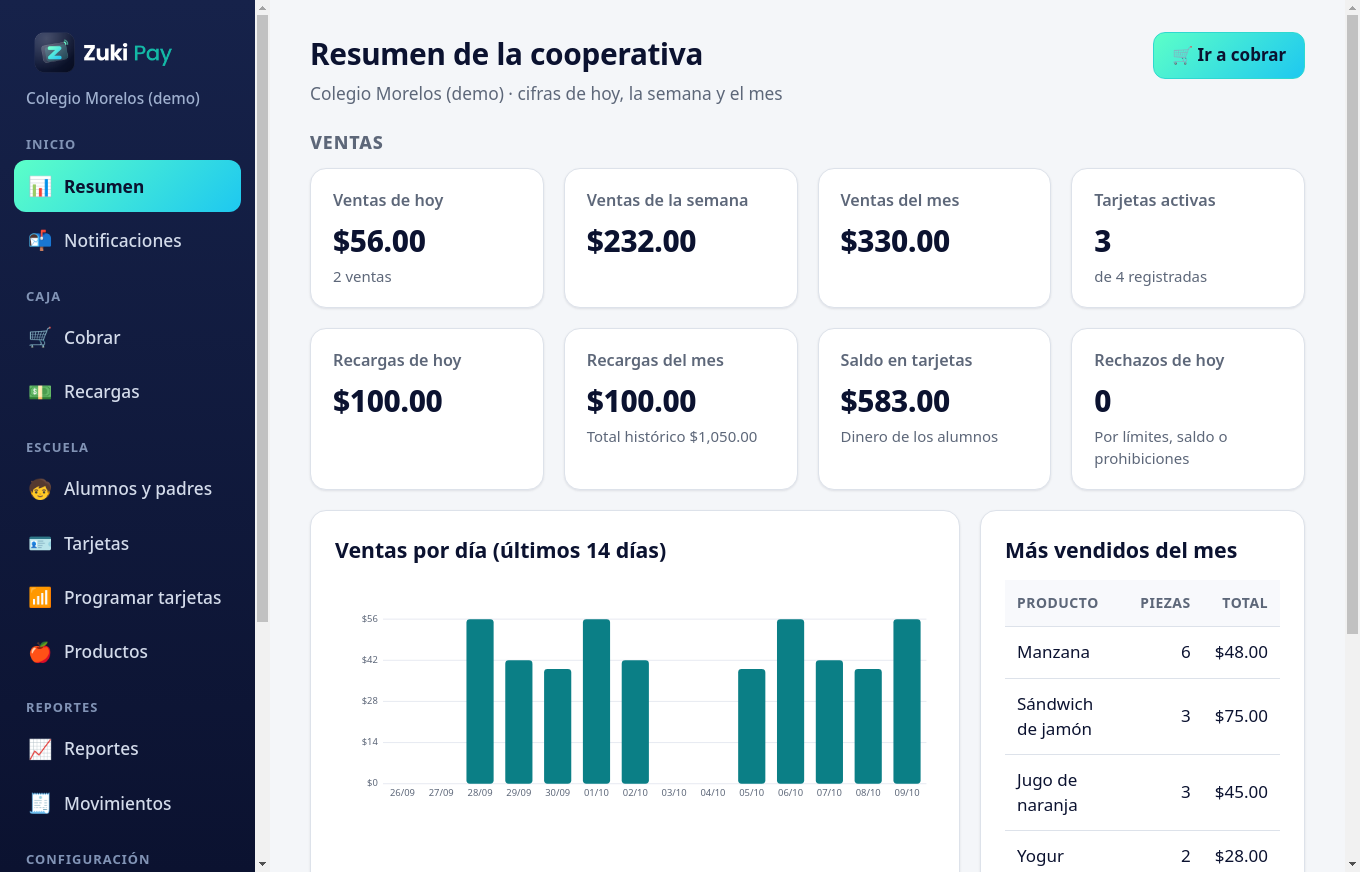
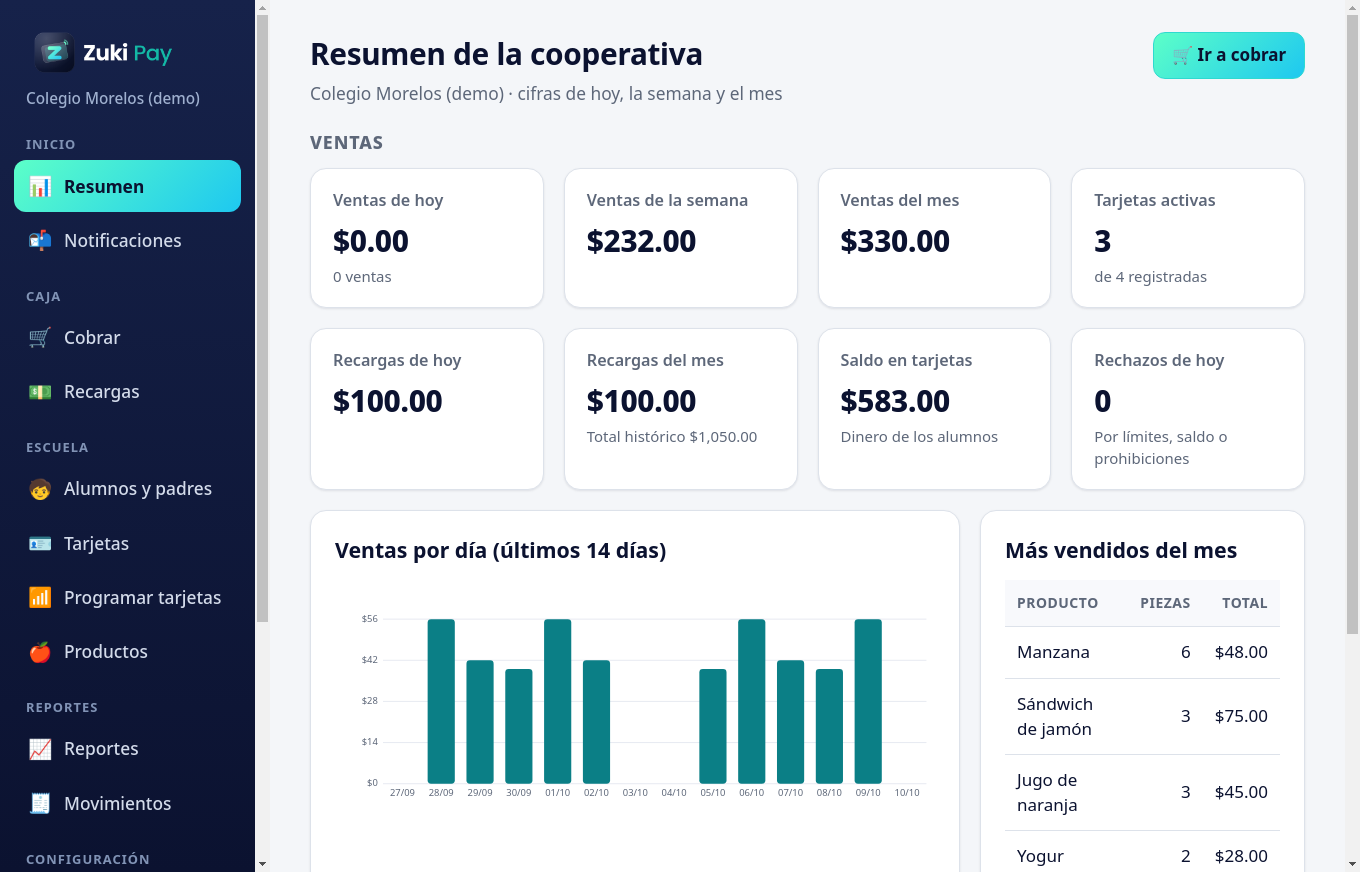
Pantalla 'Instala Zuki Pay' en celulares y tabletas (iOS/iPadOS/Android) fuera de modo instalado: instrucciones por plataforma con ilustraciones, botón Instalar (beforeinstallprompt), Copiar enlace; sin pantalla en escritorio/Electron; ?nogate=1 para pruebas; cache del SW v10; pruebas y capturas 100

Changed region(s): [[0.3088, 0.7122, 0.6794, 0.8979], [0.2471, 0.2477, 0.3088, 0.3096]]

diff --git a/server/public/install-gate.js b/server/public/install-gate.js
@@ -1,0 +1,114 @@
+// Pantalla "Instala Zuki Pay" (como Xbox Cloud Gaming): en celulares y tabletas (iPhone, iPad —incluido iPadOS
+// que se reporta como Mac con pantalla táctil— y Android) la app solo se usa INSTALADA (pantalla de inicio).
+// Si se abre en el navegador, se muestra una pantalla completa con instrucciones según el equipo.
+// * Computadoras y la app de escritorio (Electron): sin pantalla de instalación.
+// * Al instalar (evento appinstalled) o al abrir desde el ícono (display-mode standalone / navigator.standalone): desaparece.
+// * Pruebas: agregar ?nogate=1 a la URL la omite durante esa pestaña (sessionStorage). No hay otro modo de saltarla.
+(function (root) {
+  'use strict';
+  function detect(env) {
+    const ua = env.ua || ''; const touch = env.maxTouchPoints || 0;
+    if (/Electron\//.test(ua)) return { mobile: false };
+    const ipadOS = /Macintosh/.test(ua) && touch > 1;
+    const ios = /iPhone|iPad|iPod/.test(ua) || ipadOS;
+    const android = /Android/.test(ua);
+    if (!ios && !android) return { mobile: false };
+    if (ios) {
+      const other = /CriOS|FxiOS|EdgiOS|OPiOS|GSA\/|YaBrowser|DuckDuckGo|FBAN|FBAV|Instagram|Line\//.test(ua);
+      const m = ua.match(/OS (\d+)[_.](\d+)/); const v = m ? +m[1] + +m[2] / 100 : (ipadOS ? 99 : 0);
+      return { mobile: true, platform: 'ios', safari: !other && /Safari\//.test(ua), shareCapable: v >= 16.04 };
+    }
+    const chrome = /Chrome\//.test(ua) && !/EdgA|OPR|SamsungBrowser|Firefox|YaBrowser|UCBrowser|MiuiBrowser|HuaweiBrowser|; wv\)/.test(ua);
+    return { mobile: true, platform: 'android', chrome };
+  }
+  function shouldGate(env) {
+    if (env.standalone || env.nogate) return false;
+    return detect(env).mobile;
+  }
+  const api = { detect, shouldGate };
+  if (typeof module !== 'undefined' && module.exports) { module.exports = api; return; }
+  root.ZukiInstallGate = api;
+
+  const w = root; const d = w.document;
+  const qs = new URLSearchParams(w.location.search);
+  try { if (qs.get('nogate') === '1') sessionStorage.setItem('zp-nogate', '1'); } catch (_) {}
+  let nogate = false; try { nogate = sessionStorage.getItem('zp-nogate') === '1'; } catch (_) {}
+  const isStandalone = () => !!(w.matchMedia && (w.matchMedia('(display-mode: standalone)').matches || w.matchMedia('(display-mode: fullscreen)').matches || w.matchMedia('(display-mode: minimal-ui)').matches)) || w.navigator.standalone === true;
+  const env = () => ({ ua: w.navigator.userAgent, maxTouchPoints: w.navigator.maxTouchPoints, standalone: isStandalone(), nogate });
+  if (!shouldGate(env())) return;
+  const info = detect(env());
+  let deferred = null;
+
+  const SHARE = '<svg viewBox="0 0 24 24" width="30" height="30" aria-hidden="true"><path d="M12 3v12M7.5 7.5 12 3l4.5 4.5" fill="none" stroke="#1E7BF2" stroke-width="2" stroke-linecap="round" stroke-linejoin="round"/><path d="M8 10H6v10h12V10h-2" fill="none" stroke="#1E7BF2" stroke-width="2" stroke-linejoin="round"/></svg>';
+  const ADD = '<svg viewBox="0 0 24 24" width="30" height="30" aria-hidden="true"><rect x="3.5" y="3.5" width="17" height="17" rx="4" fill="none" stroke="#16224A" stroke-width="2"/><path d="M12 8v8M8 12h8" stroke="#16224A" stroke-width="2" stroke-linecap="round"/></svg>';
+  const DOTS = '<svg viewBox="0 0 24 24" width="30" height="30" aria-hidden="true"><circle cx="12" cy="5" r="2" fill="#16224A"/><circle cx="12" cy="12" r="2" fill="#16224A"/><circle cx="12" cy="19" r="2" fill="#16224A"/></svg>';
+  const PHONE = '<svg viewBox="0 0 24 24" width="30" height="30" aria-hidden="true"><rect x="6" y="2.5" width="12" height="19" rx="2.5" fill="none" stroke="#16224A" stroke-width="2"/><rect x="9" y="7" width="6" height="6" rx="1.5" fill="#2EE6B6"/></svg>';
+  const DL = '<svg viewBox="0 0 24 24" width="30" height="30" aria-hidden="true"><path d="M12 4v11M7.5 10.5 12 15l4.5-4.5M5 20h14" fill="none" stroke="#16224A" stroke-width="2" stroke-linecap="round" stroke-linejoin="round"/></svg>';
+  const step = (n, icon, html) => `<li class="ig-step"><span class="ig-n">${n}</span><span class="ig-ico">${icon}</span><span class="ig-t">${html}</span></li>`;
+  const copyBtn = '<button type="button" class="ig-btn ig-sec" id="ig-copy">📋 Copiar enlace</button>';
+
+  function content() {
+    if (info.platform === 'ios') {
+      if (info.safari || info.shareCapable) {
+        const where = info.safari ? 'abajo (o arriba en iPad)' : 'en la barra del navegador';
+        return `<p class="ig-sub">Así se instala en tu iPhone o iPad:</p><ol class="ig-steps">
+          ${step(1, SHARE, `Toca el botón <b>Compartir</b> ${where}.`)}
+          ${step(2, ADD, 'Busca y toca <b>“Agregar a pantalla de inicio”</b>. Si no lo ves, desliza hacia abajo.')}
+          ${step(3, PHONE, 'Toca <b>Agregar</b> y abre <b>Zuki Pay</b> desde el nuevo ícono.')}</ol>
+          ${info.safari ? '' : '<p class="ig-note">¿No aparece la opción? Copia el enlace y ábrelo en <b>Safari</b>.</p>' + copyBtn}`;
+      }
+      return `<p class="ig-sub">Para instalar Zuki Pay necesitas abrirla en <b>Safari</b>:</p><ol class="ig-steps">
+        ${step(1, '📋', 'Toca <b>“Copiar enlace”</b> aquí abajo.')}
+        ${step(2, '🧭', 'Abre <b>Safari</b> y pega el enlace en la barra de direcciones.')}
+        ${step(3, SHARE, 'Toca <b>Compartir</b> y luego <b>“Agregar a pantalla de inicio”</b>.')}</ol>${copyBtn}`;
+    }
+    if (info.chrome) {
+      return `<button type="button" class="ig-btn" id="ig-install" hidden>⬇ Instalar Zuki Pay</button>
+        <div id="ig-manual"><p class="ig-sub">Así se instala en tu celular Android:</p><ol class="ig-steps">
+        ${step(1, DOTS, 'Toca los <b>tres puntitos</b> arriba a la derecha.')}
+        ${step(2, DL, 'Toca <b>“Instalar app”</b> o <b>“Agregar a pantalla principal”</b>.')}
+        ${step(3, PHONE, 'Confirma y abre <b>Zuki Pay</b> desde el nuevo ícono.')}</ol></div>`;
+    }
+    return `<p class="ig-sub">Para instalar Zuki Pay te recomendamos usar <b>Google Chrome</b>:</p><ol class="ig-steps">
+      ${step(1, '📋', 'Toca <b>“Copiar enlace”</b> aquí abajo.')}
+      ${step(2, '🌐', 'Abre <b>Chrome</b> y pega el enlace.')}
+      ${step(3, DOTS, 'Toca los <b>tres puntitos</b> y luego <b>“Instalar app”</b>.')}</ol>
+      <p class="ig-note">En otros navegadores, busca en el menú la opción “Agregar a pantalla principal”.</p>${copyBtn}`;
+  }
+
+  let el = null;
+  function show() {
+    if (el || !d.body) return;
+    el = d.createElement('div'); el.id = 'install-gate'; el.setAttribute('role', 'dialog'); el.setAttribute('aria-modal', 'true');
+    el.dataset.platform = info.platform;
+    el.innerHTML = `<div class="ig-box"><img class="ig-logo" src="/logo-zukipay.png" alt="Zuki Pay">
+      <h1 class="ig-title">Instala Zuki Pay para continuar</h1>
+      <p class="ig-lead">Zuki Pay funciona como una app en tu ${info.platform === 'ios' ? 'iPhone o iPad' : 'celular o tableta'}. Es gratis y tarda un minuto.</p>
+      ${content()}<p class="ig-msg" id="ig-msg" aria-live="polite"></p></div>`;
+    d.body.appendChild(el); d.documentElement.classList.add('ig-lock');
+    const copy = el.querySelector('#ig-copy');
+    if (copy) copy.onclick = async () => {
+      const url = w.location.origin + '/';
+      let ok = false; try { await w.navigator.clipboard.writeText(url); ok = true; } catch (_) {
+        try { const t = d.createElement('textarea'); t.value = url; d.body.appendChild(t); t.select(); ok = d.execCommand('copy'); t.remove(); } catch (_) {}
+      }
+      el.querySelector('#ig-msg').textContent = ok ? '✅ Enlace copiado. Pégalo en el navegador.' : 'Copia este enlace: ' + url;
+    };
+    const ib = el.querySelector('#ig-install');
+    if (ib) ib.onclick = async () => {
+      if (!deferred) return; deferred.prompt();
+      try { const r = await deferred.userChoice; if (r && r.outcome === 'accepted') el.querySelector('#ig-msg').textContent = 'Instalando… abre Zuki Pay desde el nuevo ícono.'; } catch (_) {}
+      deferred = null; ib.hidden = true; el.querySelector('#ig-manual').hidden = false;
+    };
+    refreshInstall();
+  }
+  function refreshInstall() {
+    if (!el) return; const ib = el.querySelector('#ig-install'); const man = el.querySelector('#ig-manual');
+    if (ib) { ib.hidden = !deferred; if (man) man.hidden = !!deferred; }
+  }
+  function hide() { if (el) { el.remove(); el = null; } d.documentElement.classList.remove('ig-lock'); }
+  w.addEventListener('beforeinstallprompt', (e) => { e.preventDefault(); deferred = e; refreshInstall(); });
+  w.addEventListener('appinstalled', () => { deferred = null; hide(); });
+  if (w.matchMedia) { const mq = w.matchMedia('(display-mode: standalone)'); const f = (e) => { if (e.matches) hide(); }; if (mq.addEventListener) mq.addEventListener('change', f); }
+  if (d.body) show(); else d.addEventListener('DOMContentLoaded', show);
+})(typeof window !== 'undefined' ? window : globalThis);

diff --git a/test/install-gate.test.js b/test/install-gate.test.js
@@ -1,0 +1,39 @@
+'use strict';
+const test = require('node:test'); const assert = require('node:assert');
+const fs = require('fs'); const path = require('path');
+const { detect, shouldGate } = require('../server/public/install-gate.js');
+const UA = {
+  iphoneSafari: 'Mozilla/5.0 (iPhone; CPU iPhone OS 17_4 like Mac OS X) AppleWebKit/605.1.15 (KHTML, like Gecko) Version/17.4 Mobile/15E148 Safari/604.1',
+  iphoneChrome: 'Mozilla/5.0 (iPhone; CPU iPhone OS 17_4 like Mac OS X) AppleWebKit/605.1.15 (KHTML, like Gecko) CriOS/123.0 Mobile/15E148 Safari/604.1',
+  iphoneChromeOld: 'Mozilla/5.0 (iPhone; CPU iPhone OS 15_7 like Mac OS X) AppleWebKit/605.1.15 (KHTML, like Gecko) CriOS/110.0 Mobile/15E148 Safari/604.1',
+  ipadOS: 'Mozilla/5.0 (Macintosh; Intel Mac OS X 10_15_7) AppleWebKit/605.1.15 (KHTML, like Gecko) Version/17.4 Safari/605.1.15',
+  androidChrome: 'Mozilla/5.0 (Linux; Android 14; Pixel 8) AppleWebKit/537.36 (KHTML, like Gecko) Chrome/124.0 Mobile Safari/537.36',
+  androidSamsung: 'Mozilla/5.0 (Linux; Android 14; SM-S911B) AppleWebKit/537.36 (KHTML, like Gecko) SamsungBrowser/24.0 Chrome/117.0 Mobile Safari/537.36',
+  winChrome: 'Mozilla/5.0 (Windows NT 10.0; Win64; x64) AppleWebKit/537.36 (KHTML, like Gecko) Chrome/124.0 Safari/537.36',
+  electron: 'Mozilla/5.0 (X11; Linux x86_64) AppleWebKit/537.36 (KHTML, like Gecko) zuki-pay/2.1.0 Chrome/126.0 Electron/31.7.7 Safari/537.36',
+};
+test('celulares y tabletas en navegador: pantalla de instalación', () => {
+  for (const k of ['iphoneSafari', 'iphoneChrome', 'androidChrome', 'androidSamsung']) assert.equal(shouldGate({ ua: UA[k] }), true, k);
+  assert.equal(shouldGate({ ua: UA.ipadOS, maxTouchPoints: 5 }), true, 'iPadOS como Mac táctil');
+});
+test('computadoras, Mac sin táctil y Electron: sin pantalla', () => {
+  assert.equal(shouldGate({ ua: UA.winChrome }), false);
+  assert.equal(shouldGate({ ua: UA.ipadOS, maxTouchPoints: 0 }), false);
+  assert.equal(shouldGate({ ua: UA.electron, maxTouchPoints: 5 }), false);
+});
+test('instalada (standalone) o ?nogate=1: sin pantalla', () => {
+  assert.equal(shouldGate({ ua: UA.iphoneSafari, standalone: true }), false);
+  assert.equal(shouldGate({ ua: UA.androidChrome, nogate: true }), false);
+});
+test('detección de navegador por plataforma', () => {
+  assert.deepEqual(detect({ ua: UA.iphoneSafari }), { mobile: true, platform: 'ios', safari: true, shareCapable: true });
+  assert.equal(detect({ ua: UA.iphoneChrome }).safari, false); assert.equal(detect({ ua: UA.iphoneChrome }).shareCapable, true);
+  assert.equal(detect({ ua: UA.iphoneChromeOld }).shareCapable, false);
+  assert.equal(detect({ ua: UA.androidChrome }).chrome, true); assert.equal(detect({ ua: UA.androidSamsung }).chrome, false);
+});
+test('index.html carga la pantalla antes de la app y el SW la guarda (cache v10)', () => {
+  const html = fs.readFileSync(path.join(__dirname, '../server/public/index.html'), 'utf8');
+  assert.ok(html.indexOf('/install-gate.js') > 0 && html.indexOf('/install-gate.js') < html.indexOf('/app.js'));
+  const sw = fs.readFileSync(path.join(__dirname, '../server/public/sw.js'), 'utf8');
+  assert.match(sw, /coop-v10/); assert.match(sw, /'\/install-gate\.js'/);
+});

diff --git a/scripts/e2e-instalar.js b/scripts/e2e-instalar.js
@@ -1,0 +1,40 @@
+'use strict';
+// Pantalla "Instala Zuki Pay" en celular (UA emulado). `xvfb-run npx electron scripts/e2e-instalar.js`
+const path = require('path'); const fs = require('fs');
+const { app, BrowserWindow } = require('electron');
+const { createServer } = require('../server/app');
+const { consoleMailer } = require('../src/core/auth');
+const shots = path.join(__dirname, '..', 'docs', 'capturas', 'v2');
+const sleep = (ms) => new Promise((r) => setTimeout(r, ms));
+const UA = {
+  ios: 'Mozilla/5.0 (iPhone; CPU iPhone OS 17_4 like Mac OS X) AppleWebKit/605.1.15 (KHTML, like Gecko) Version/17.4 Mobile/15E148 Safari/604.1',
+  android: 'Mozilla/5.0 (Linux; Android 14; Pixel 8) AppleWebKit/537.36 (KHTML, like Gecko) Chrome/124.0 Mobile Safari/537.36',
+};
+app.on('window-all-closed', () => {});
+app.whenReady().then(async () => {
+  let ok = true;
+  try {
+    const S = await createServer({ jwtSecret: 'e'.repeat(40), mailer: consoleMailer(() => {}), billingSweepMs: 0, env: {} });
+    const srv = await new Promise((r) => { const s = S.app.listen(0, () => r(s)); });
+    const base = `http://127.0.0.1:${srv.address().port}/`;
+    const run = async (ua, url) => {
+      const win = new BrowserWindow({ width: 390, height: 844, show: false, webPreferences: { partition: 'p' + Math.random() } });
+      win.webContents.setUserAgent(ua); await win.loadURL(url).catch(() => {}); await sleep(1500); return win;
+    };
+    for (const [k, name] of [['ios', '100-instalar-ios'], ['android', '101-instalar-android']]) {
+      const win = await run(UA[k], base);
+      const p = await win.webContents.executeJavaScript('(document.getElementById("install-gate")||{dataset:{}}).dataset.platform');
+      if (p !== k) { ok = false; console.error('falta pantalla', k, p); }
+      await sleep(400); win.webContents.invalidate(); await sleep(600);
+      fs.writeFileSync(path.join(shots, name + '.png'), (await win.webContents.capturePage()).toPNG()); console.log('captura', name);
+      win.destroy();
+    }
+    const w2 = await run(UA.android, base + '?nogate=1');
+    if (await w2.webContents.executeJavaScript('!!document.getElementById("install-gate")')) { ok = false; console.error('?nogate=1 no funcionó'); }
+    w2.destroy();
+    const w3 = await run(new BrowserWindow({ show: false }).webContents.getUserAgent(), base);
+    if (await w3.webContents.executeJavaScript('!!document.getElementById("install-gate")')) { ok = false; console.error('pantalla en escritorio'); }
+    srv.close();
+  } catch (e) { ok = false; console.error(e); }
+  console.log(ok ? 'E2E INSTALAR OK' : 'E2E INSTALAR FALLÓ'); app.exit(ok ? 0 : 1);
+});

diff --git a/server/public/web.css b/server/public/web.css
@@ -35,3 +35,20 @@
 #offline-overlay .offline-msg { font-size: 1.25rem; font-weight: 700; margin: 0 0 12px; }
 #offline-overlay .offline-sub { color: #6b7385; margin: 0 0 18px; }
 body.sin-conexion #app { pointer-events: none; user-select: none; filter: grayscale(.6); }
+/* Pantalla "Instala Zuki Pay" (celulares y tabletas en el navegador; ver install-gate.js) */
+html.ig-lock, html.ig-lock body { overflow: hidden; }
+#install-gate { position: fixed; inset: 0; z-index: 20000; overflow-y: auto; background: linear-gradient(160deg, #16224A 0%, #1F3270 100%); display: flex; justify-content: center; align-items: flex-start; padding: 24px 16px 40px; }
+#install-gate .ig-box { background: #fff; color: #16224A; border-radius: 22px; max-width: 460px; width: 100%; padding: 26px 20px 22px; box-shadow: 0 10px 40px rgba(0,0,0,.35); text-align: center; border-top: 6px solid #2EE6B6; }
+#install-gate .ig-logo { height: 54px; max-width: 80%; object-fit: contain; margin: 0 auto 10px; display: block; }
+#install-gate .ig-title { font-size: 1.55rem; margin: 6px 0 8px; color: #16224A; }
+#install-gate .ig-lead, #install-gate .ig-sub { font-size: 1.08rem; line-height: 1.45; margin: 0 0 12px; }
+#install-gate .ig-sub { font-weight: 600; margin-top: 14px; }
+#install-gate .ig-steps { list-style: none; padding: 0; margin: 0 0 14px; text-align: left; }
+#install-gate .ig-step { display: flex; align-items: center; gap: 12px; background: #EEFBF7; border: 1px solid #BFEFE1; border-radius: 14px; padding: 12px; margin-bottom: 10px; font-size: 1.08rem; line-height: 1.4; }
+#install-gate .ig-n { flex: 0 0 34px; height: 34px; border-radius: 50%; background: #16224A; color: #2EE6B6; font-weight: 800; display: flex; align-items: center; justify-content: center; font-size: 1.1rem; }
+#install-gate .ig-ico { flex: 0 0 44px; height: 44px; border-radius: 10px; background: #fff; border: 1px solid #D5DBEA; display: flex; align-items: center; justify-content: center; font-size: 1.5rem; }
+#install-gate .ig-btn { display: block; width: 100%; min-height: 58px; border: 0; border-radius: 14px; background: #2EE6B6; color: #16224A; font-size: 1.25rem; font-weight: 800; margin: 8px 0; cursor: pointer; }
+#install-gate .ig-btn[hidden], #install-gate [hidden] { display: none; }
+#install-gate .ig-sec { background: #16224A; color: #fff; font-size: 1.1rem; }
+#install-gate .ig-note { font-size: .98rem; color: #3A4670; margin: 6px 0; }
+#install-gate .ig-msg { font-size: 1rem; font-weight: 600; min-height: 1.2em; margin: 8px 0 0; word-break: break-all; }

diff --git a/server/public/sw.js b/server/public/sw.js
@@ -4,8 +4,8 @@
 // * Siempre se pide primero a la red (la interfaz guardada solo se usa si no hay conexión).
 // * Las llamadas a /api/ nunca pasan por la caché: sin conexión fallan y la interfaz bloquea cobros y recargas.
 //   No hay cola de operaciones sin conexión.
-const CACHE = 'coop-v9';
-const SHELL = ['/', '/index.html', '/styles.css', '/web.css', '/app.js', '/coop-web.js', '/manifest.webmanifest', '/icon-192.png', '/icon-512.png', '/apple-touch-icon.png', '/favicon.ico', '/logo-zukipay.png', '/logo-zukipay-blanco.png'];
+const CACHE = 'coop-v10';
+const SHELL = ['/', '/index.html', '/styles.css', '/web.css', '/app.js', '/install-gate.js', '/coop-web.js', '/manifest.webmanifest', '/icon-192.png', '/icon-512.png', '/apple-touch-icon.png', '/favicon.ico', '/logo-zukipay.png', '/logo-zukipay-blanco.png'];
 self.addEventListener('install', (e) => { e.waitUntil(caches.open(CACHE).then((c) => c.addAll(SHELL.map((u) => new Request(u, { cache: 'reload' }))))); self.skipWaiting(); });
 self.addEventListener('activate', (e) => { e.waitUntil(caches.keys().then((ks) => Promise.all(ks.filter((k) => k !== CACHE).map((k) => caches.delete(k))))); self.clients.claim(); });
 self.addEventListener('fetch', (e) => {

diff --git a/server/public/index.html b/server/public/index.html
@@ -22,6 +22,7 @@
 <body>
   <div id="app"></div>
   <div id="toast"></div>
+  <script src="/install-gate.js"></script>
   <script src="/coop-web.js"></script>
   <script src="/app.js"></script>
 </body>

diff --git a/README.md b/README.md
@@ -401,3 +401,15 @@ Más: integración con lectores en `INTEGRACION_NFC.md`; mejoras futuras en `PEN
 - El sistema se llama **Zuki Pay** (antes "Cooperativa NFC"). Identificadores internos (paquete `cooperativa-nfc`, base de datos, URL de Render, repositorio) no cambian.
 - Logo opción J (navy + menta/cian). Íconos regenerados con `python3 scripts/gen-icons-zukipay.py` (PWA, favicon, `build/icon.png` 1024 y `build/icon.ico` 16–256).
 - El instalador y `Zuki Pay.exe` llevan el ícono (verificado con `wrestool -x -t 14`). Capturas: `docs/capturas/v2/99-zukipay-login.png`, `99b-zukipay-panel.png` (`npm run e2e:zukipay`).
+
+## Pantalla "Instala Zuki Pay" (celulares y tabletas)
+
+En iPhone, iPad (incluido iPadOS que se reporta como Mac táctil) y Android, si Zuki Pay se abre en el navegador
+(no instalada), aparece una pantalla completa con instrucciones para instalarla (`server/public/install-gate.js`):
+iOS Safari → Compartir → "Agregar a pantalla de inicio"; otros navegadores de iOS → mismo menú en iOS 16.4+ o
+abrir en Safari ("Copiar enlace"); Android Chrome → botón "Instalar Zuki Pay" (si el navegador ofrece
+`beforeinstallprompt`) o tres puntitos → "Instalar app"; otros navegadores de Android → se sugiere Chrome.
+Computadoras y la app de escritorio (Electron) no la muestran. Desaparece al instalar o al abrir desde el ícono.
+
+**Pruebas:** abrir con `?nogate=1` (p. ej. `https://…/?nogate=1`) la omite durante esa pestaña. No hay otro modo
+de saltarla. Capturas: `npm run e2e:instalar` → `docs/capturas/v2/100-instalar-ios.png` y `101-instalar-android.png`.
